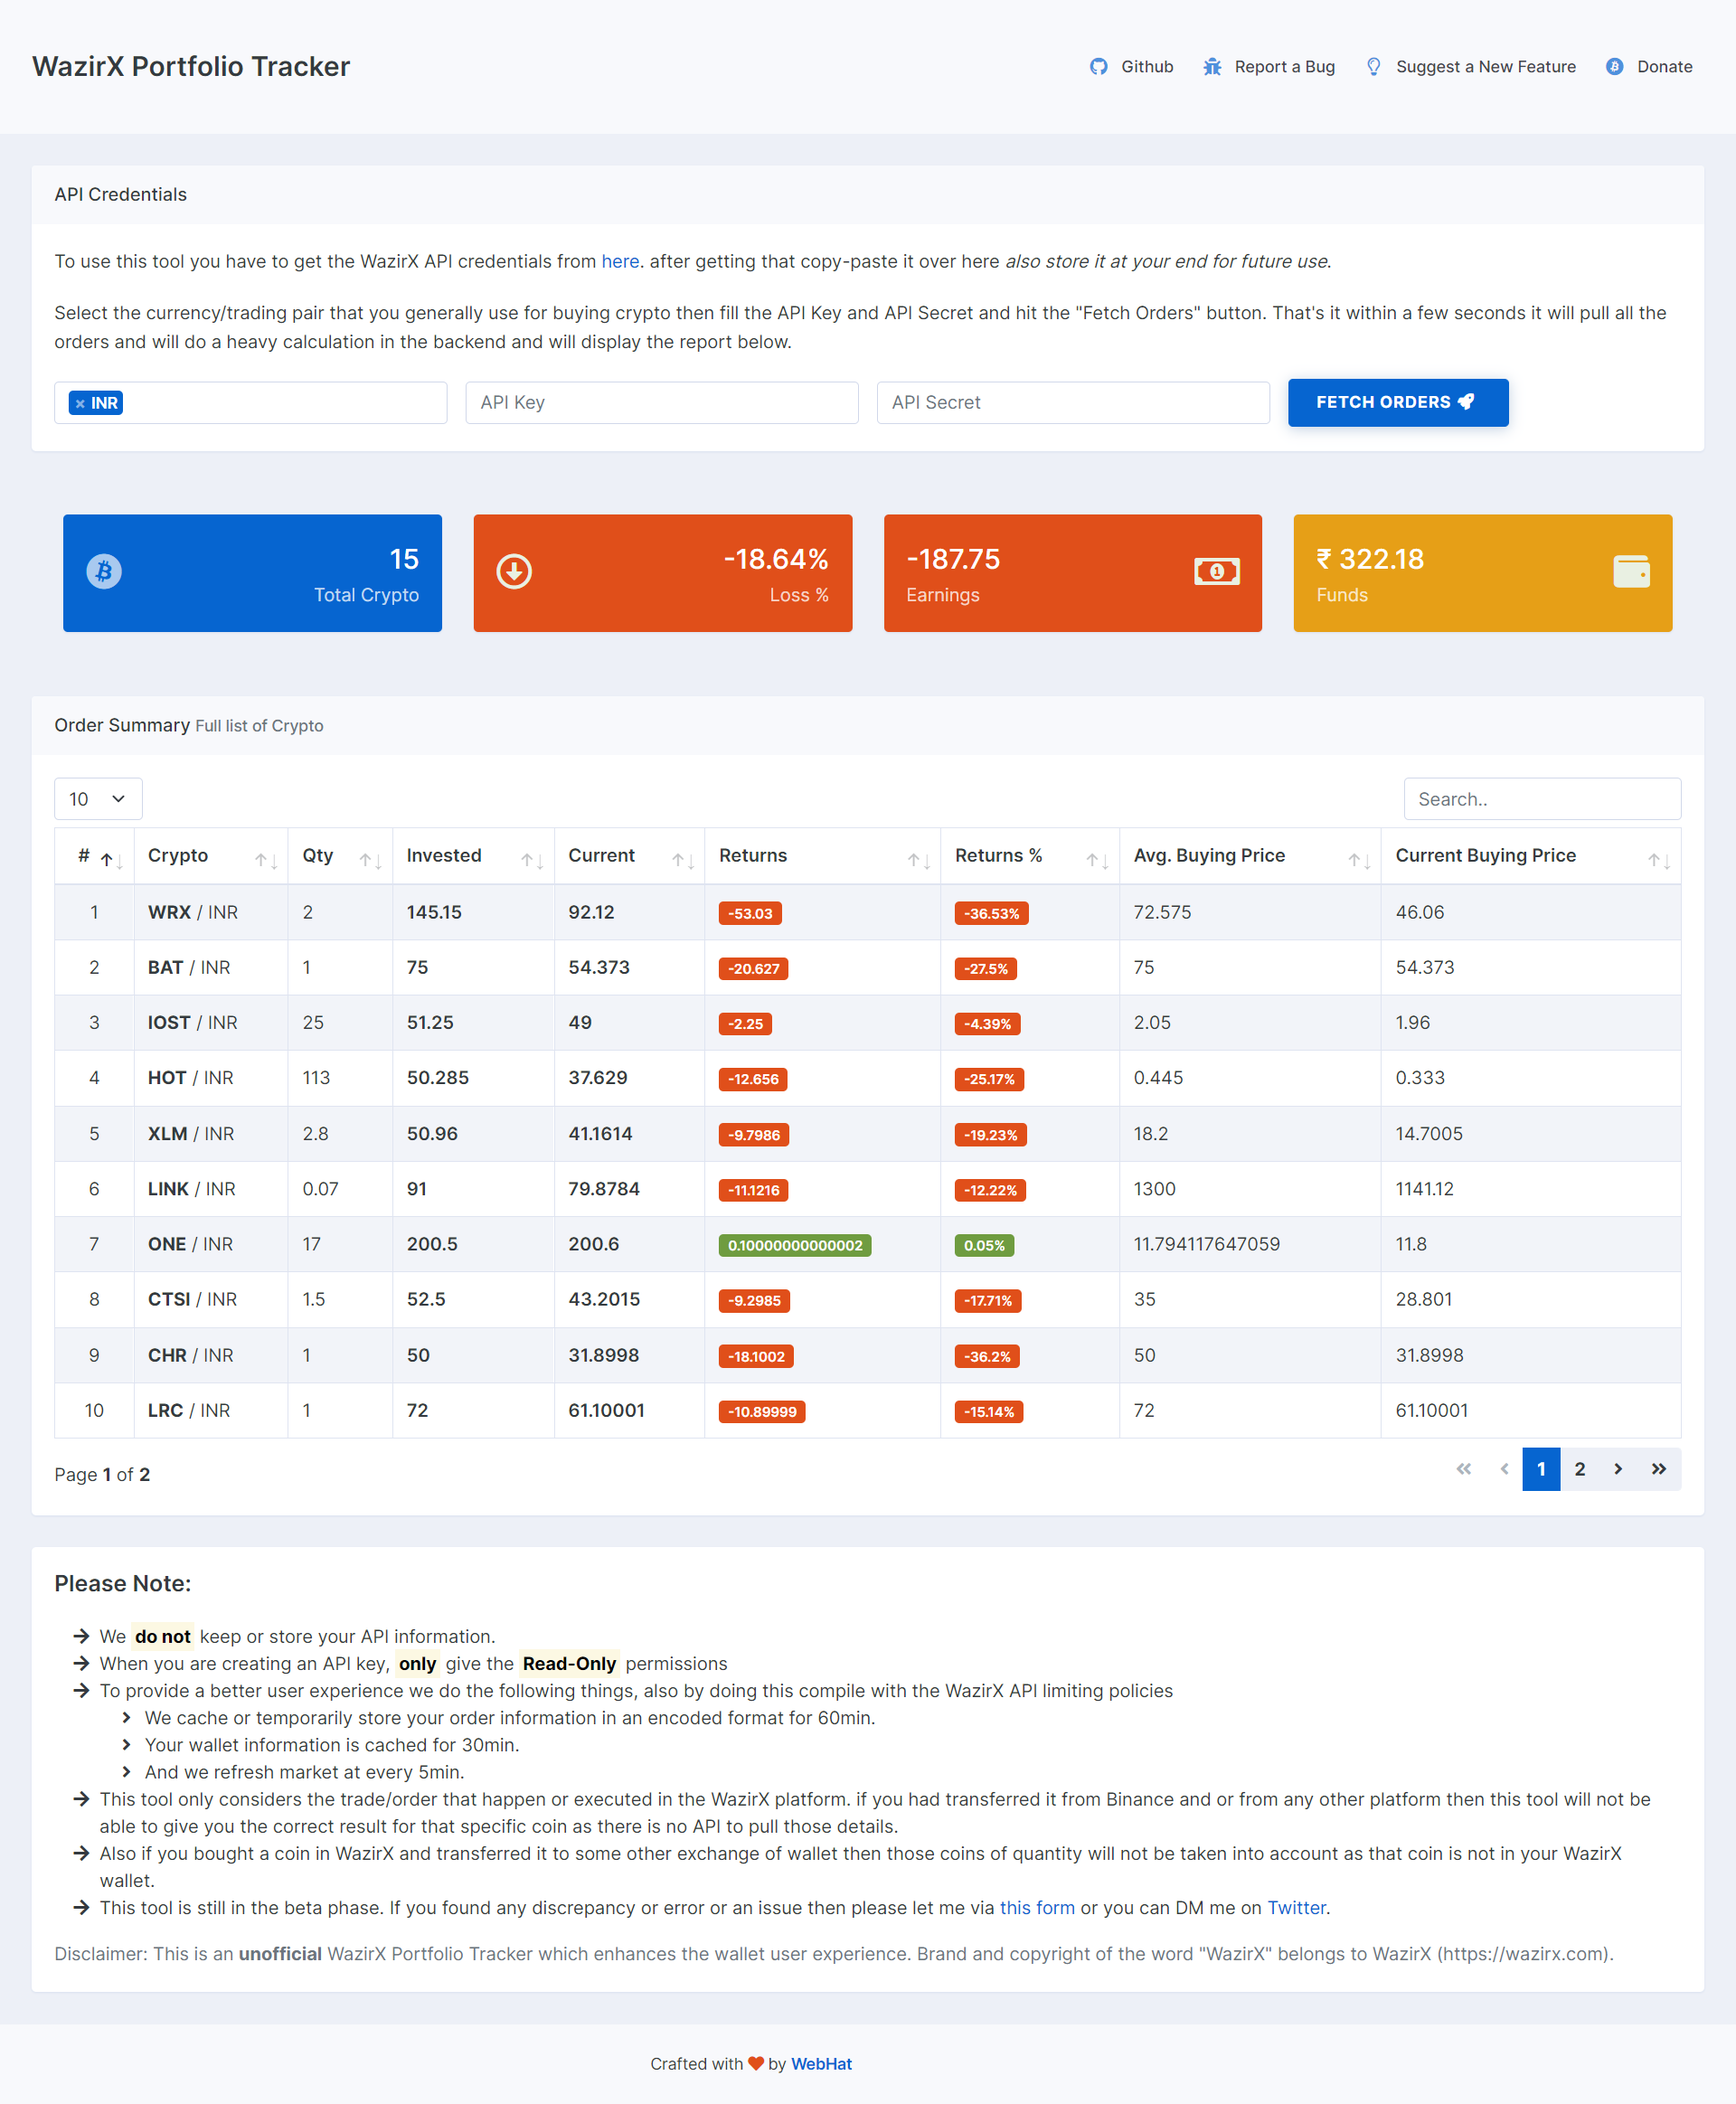
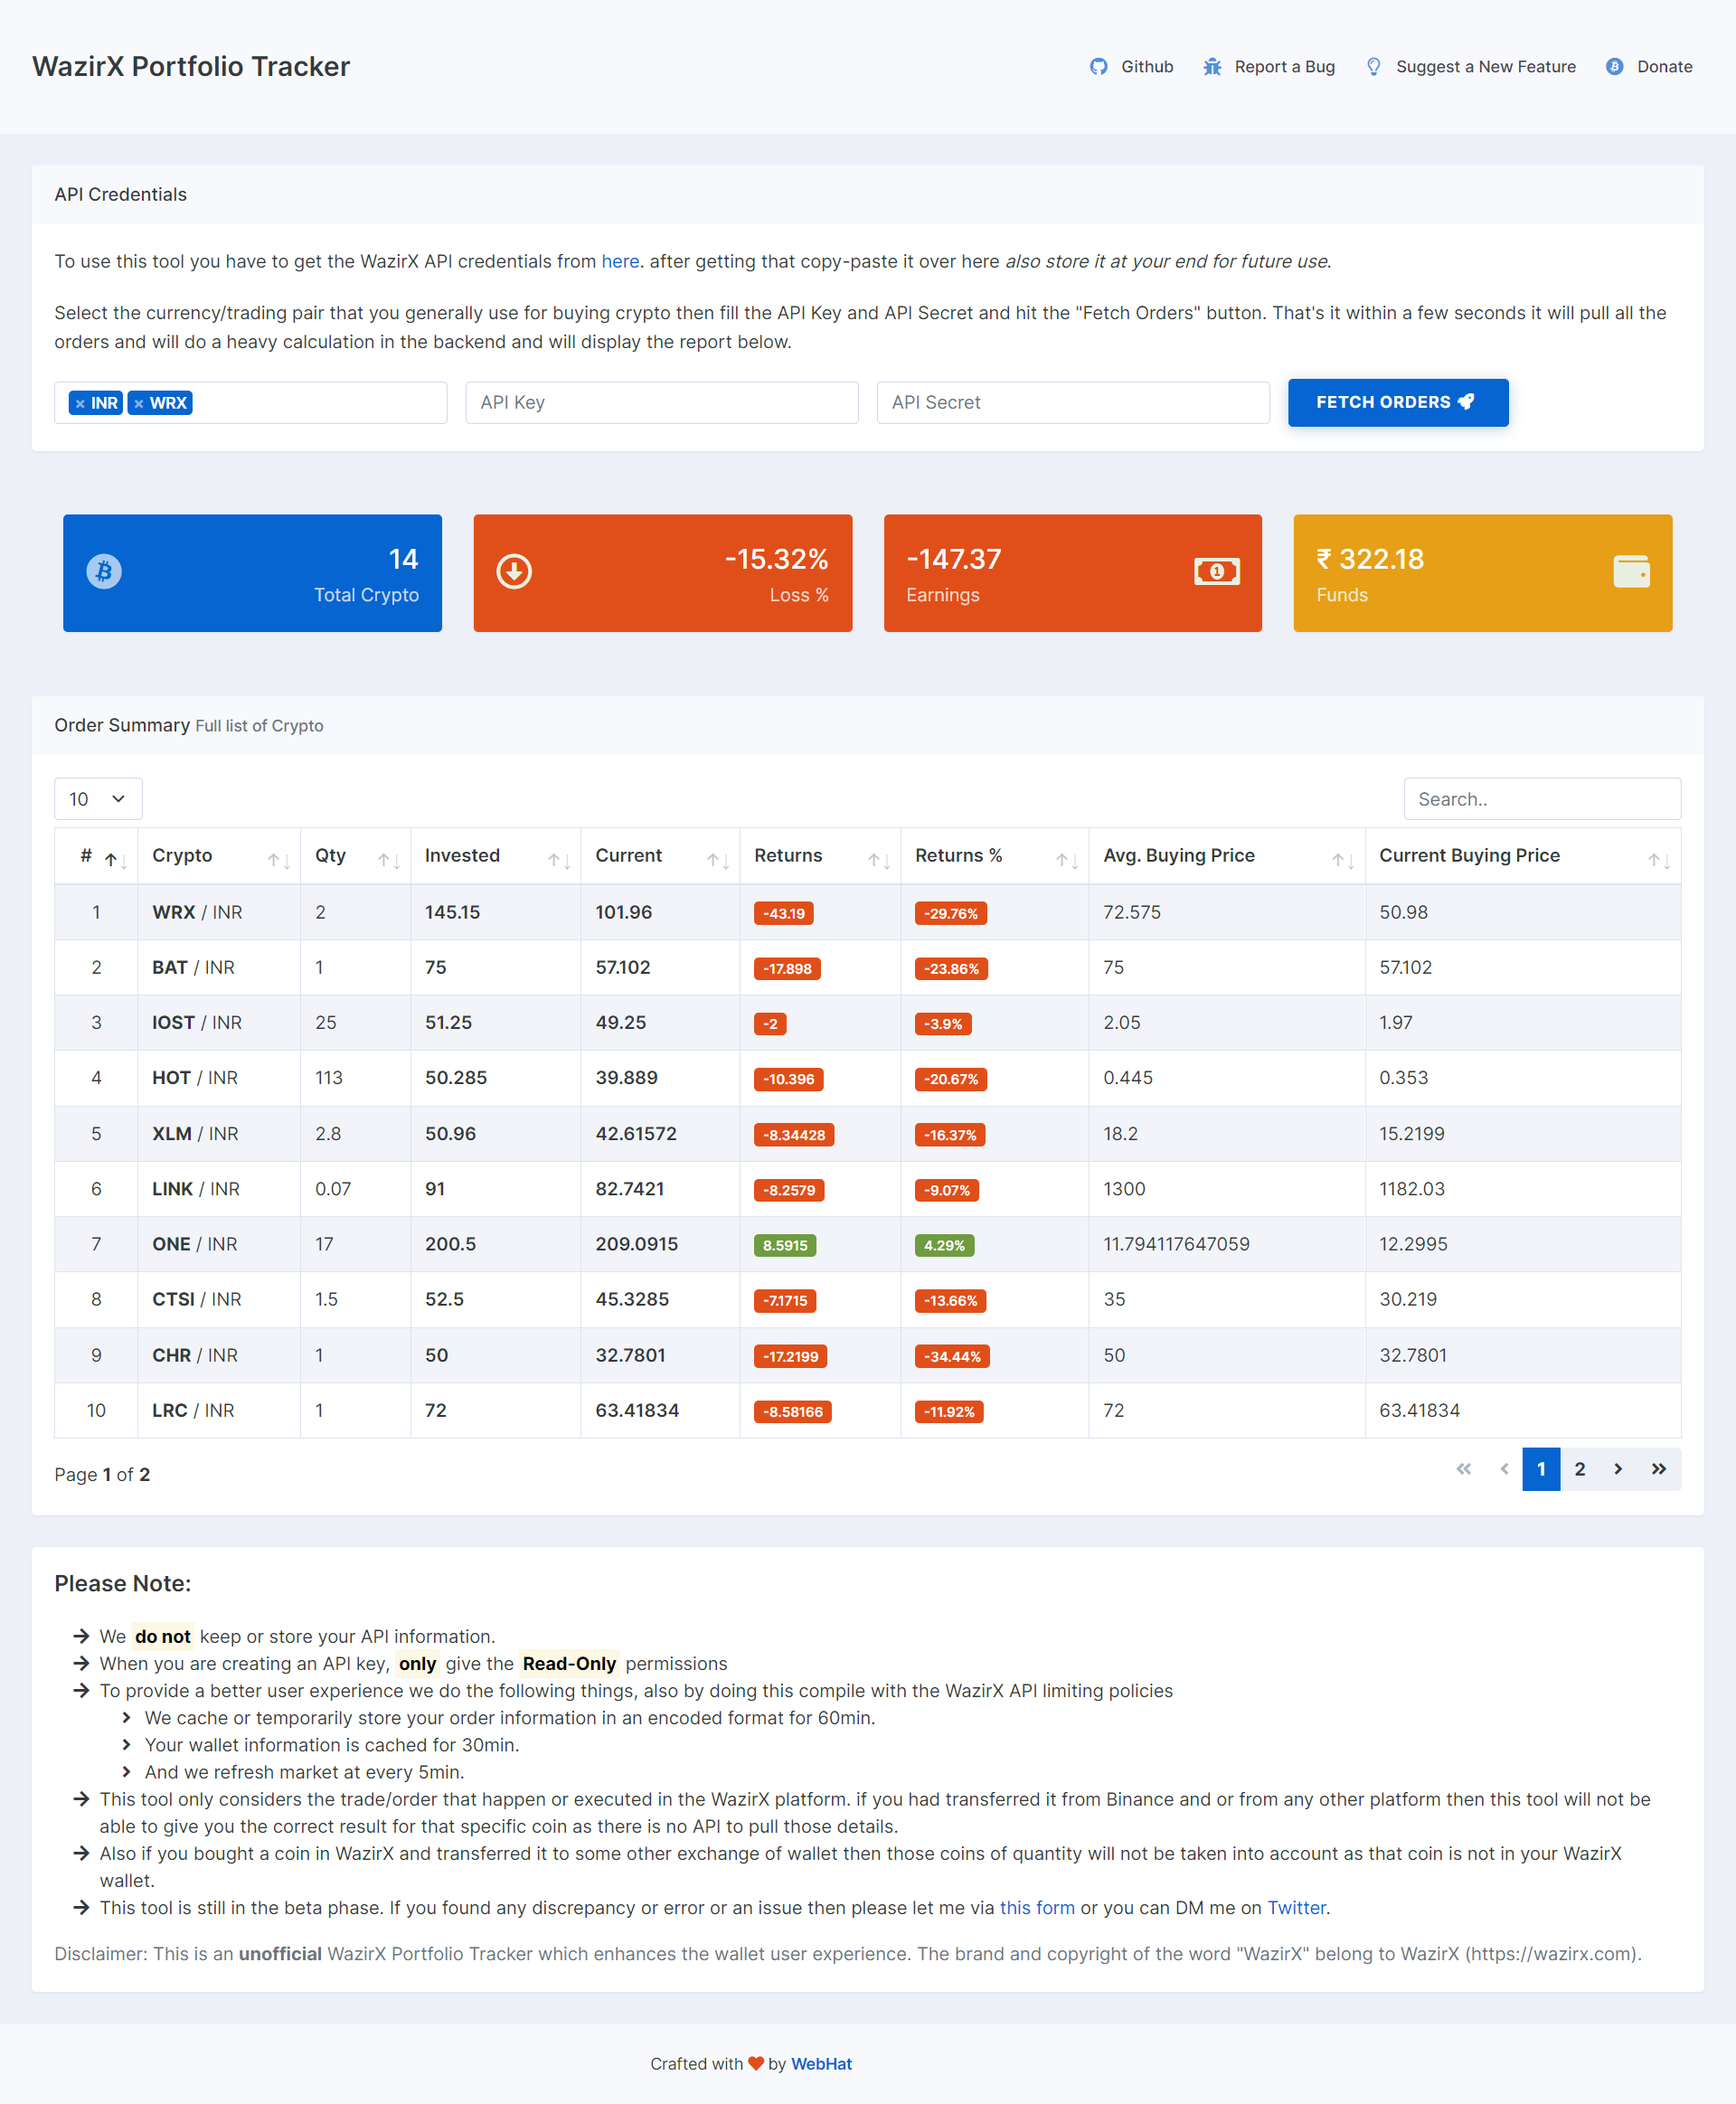
Tweak - ctr, screenshot and lint index file.

diff --git a/index.php b/index.php
@@ -1,25 +1,25 @@
 <?php
+
 session_start();
 require_once 'vendor/autoload.php';
 
-if(!APP_DEBUG){
+if (!APP_DEBUG) {
     error_reporting(0);
-}
-else{
+} else {
     error_reporting(E_ERROR | E_WARNING | E_PARSE);
 }
 
 if (!empty(filter_input(INPUT_POST, 'consent', FILTER_SANITIZE_STRING))) {
     if ($_SESSION['csrf_token'] !== filter_input(INPUT_POST, 'csrf_token', FILTER_SANITIZE_STRING)) {
-        
+
         // CSRF miss-match so redirecting to home page
-        header('Location: '. getSiteURL('/'));
+        header('Location: '.getSiteURL('/'));
         die();
     }
-    $tradingPair = !empty(filter_input(INPUT_POST, 'trading_pair', FILTER_DEFAULT , FILTER_REQUIRE_ARRAY)) ? $_POST['trading_pair'] : ['inr'];
+    $tradingPair = !empty(filter_input(INPUT_POST, 'trading_pair', FILTER_DEFAULT, FILTER_REQUIRE_ARRAY)) ? $_POST['trading_pair'] : ['inr'];
     $apiKey = $_SESSION['api_key'] = filter_input(INPUT_POST, 'api_key', FILTER_SANITIZE_STRING);
     $apiSecret = $_SESSION['api_secret'] = filter_input(INPUT_POST, 'api_secret', FILTER_SANITIZE_STRING);
-    
+
     $obj = new \BalanceSheet\BalanceSheet();
     $obj->listOrders($apiKey, $apiSecret, $tradingPair);
     die();

diff --git a/src/BalanceSheet.php b/src/BalanceSheet.php
@@ -201,7 +201,7 @@ class BalanceSheet
             'invests' => $cards,
             'avg_percentage' => round(($totalPer / $ctr), 2, PHP_ROUND_HALF_UP),
             'total_profit' => round($totalProfit, 2, PHP_ROUND_HALF_UP),
-            'total_crypto' => ($ctr + 1),
+            'total_crypto' => $ctr,
             'wallet_balance' => $usableBalance,
             'csrf_token' => generateCSRFToken(),
         ]);
